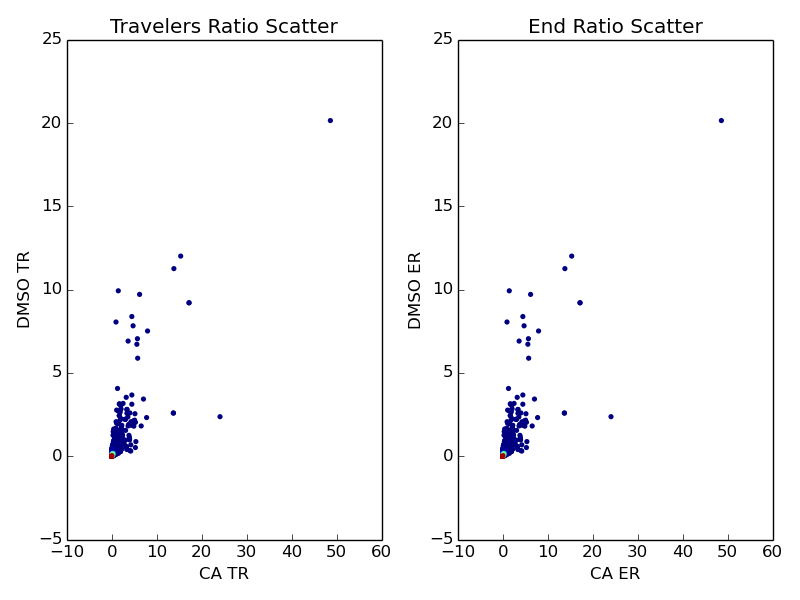
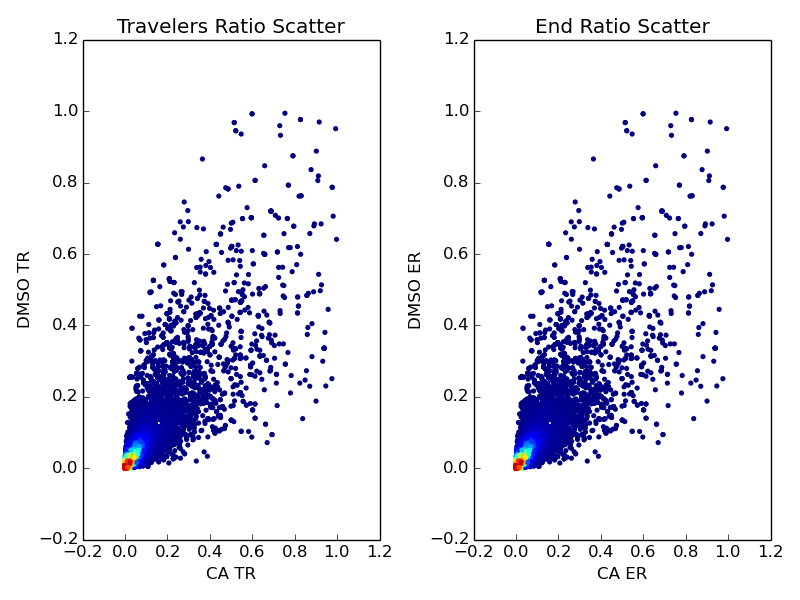
updates

diff --git a/src/master_writer.py b/src/master_writer.py
@@ -133,6 +133,9 @@ def run(DMSOgenes,DMSOTSS,DMSOEND,CAgenes,CATSS,CAEND,filedir,figuredir):
     ax1.set_ylabel('DMSO TR')
     ax1.get_xaxis().tick_bottom()
     ax1.get_yaxis().tick_left()
+    ax1.set_xlim([0, 1])
+    ax1.set_ylim([0, 1])
+    ax1.plot([0,1])
     ax2 = F3.add_subplot(1,2,2)
     xy = np.vstack([TRx,TRy])
     z = gaussian_kde(xy)(xy)
@@ -142,6 +145,9 @@ def run(DMSOgenes,DMSOTSS,DMSOEND,CAgenes,CATSS,CAEND,filedir,figuredir):
     ax2.set_ylabel('DMSO ER')
     ax2.get_xaxis().tick_bottom()
     ax2.get_yaxis().tick_left()
+    ax1.set_xlim([0, 1])
+    ax1.set_ylim([0, 1])
+    ax2.plot([0,1])
     plt.savefig(figuredir + '/Scatter.png')
     for item in sorted(TRgenes, key=itemgetter(1),reverse=True):
         outfile2.write(item[0] + '\t' + str(item[1]) + '\n')
